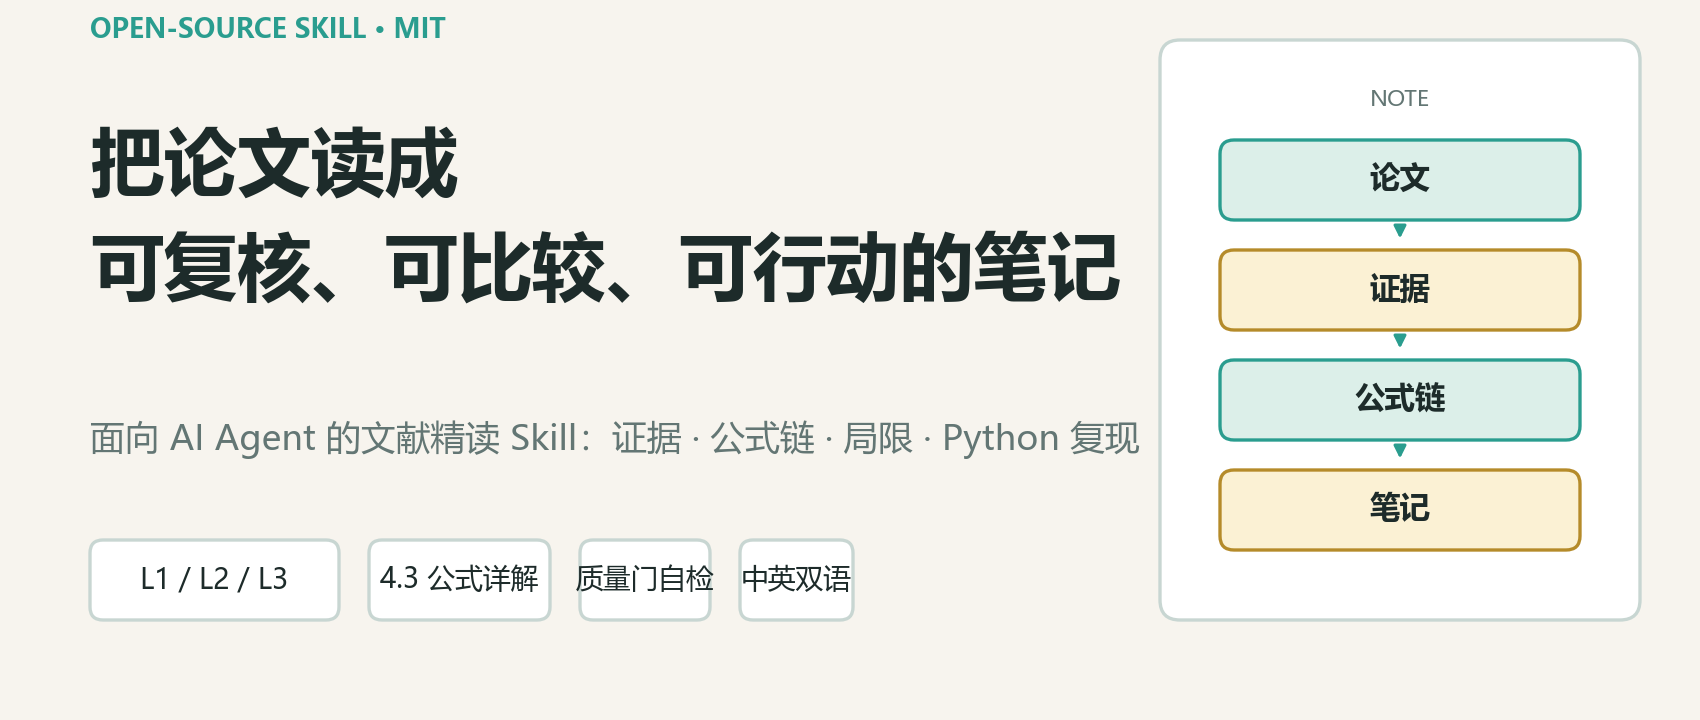
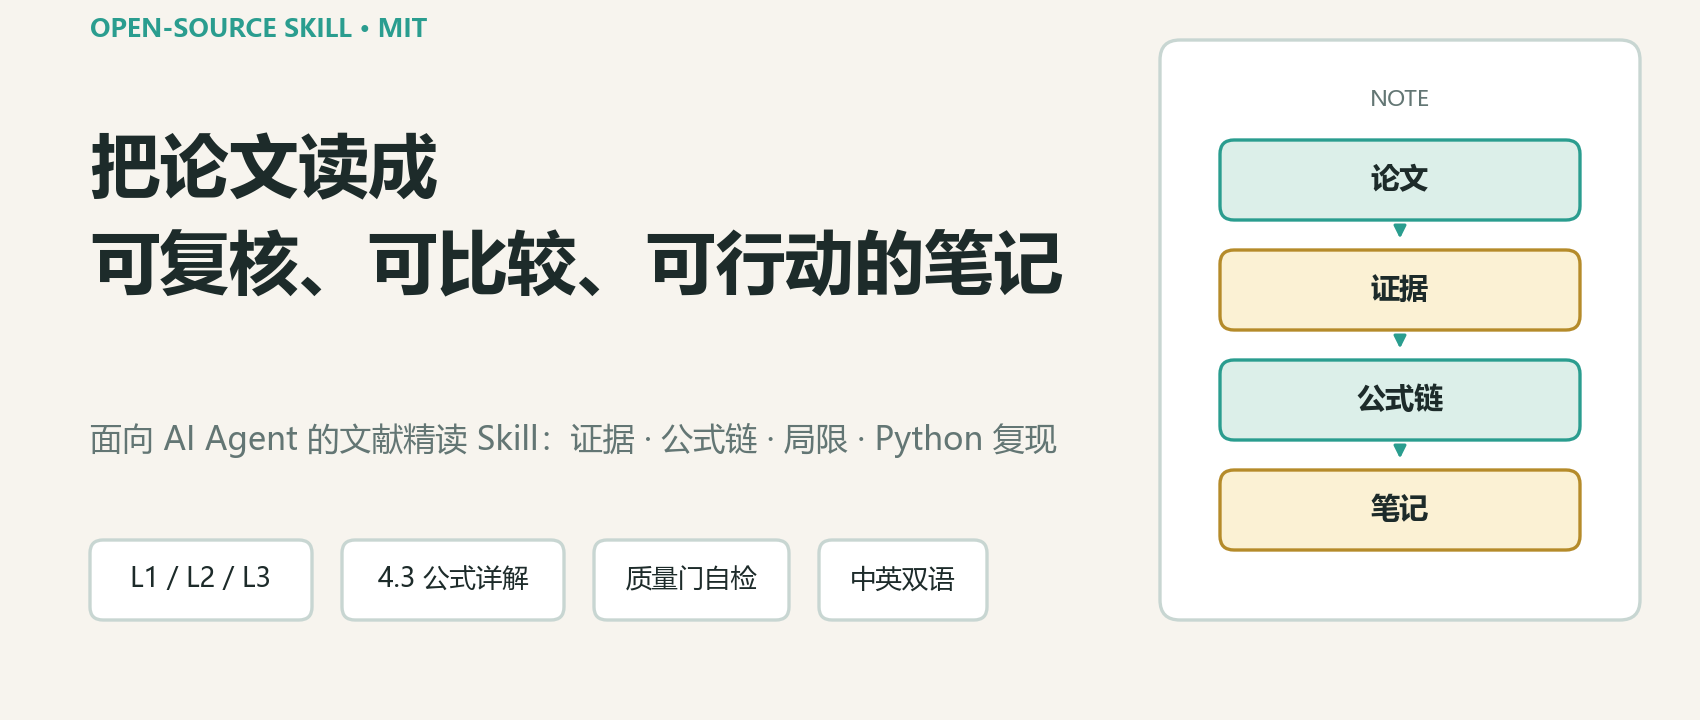
docs: auto-size cover chips and rebalance typography

diff --git a/docs/make_figures.py b/docs/make_figures.py
@@ -66,6 +66,11 @@ def text(ax, x, y, s, size=10, color=INK, weight="normal", ha="center", va="cent
             ha=ha, va=va, zorder=5, **kw)
 
 
+def display_width(s: str) -> int:
+    """Approximate display width: CJK characters count as 2, Latin as 1."""
+    return sum(2 if ord(ch) > 127 else 1 for ch in s)
+
+
 def wrap_display(s: str, width: int) -> str:
     """Wrap mixed CJK/Latin text: width is counted in CJK-character units."""
     lines, cur, used = [], "", 0
@@ -431,20 +436,20 @@ def cover(lang: str):
         y = 50 - i * 11
         rounded(ax, 122, y, 36, 8, fill=TEAL_L if i % 2 == 0 else YELLOW_L,
                 edge=TEAL if i % 2 == 0 else "#B58B2A", radius=1.4)
-        text(ax, 140, y + 4, s, size=11, weight="bold")
+        text(ax, 140, y + 4, s, size=10.5, weight="bold")
         if i < 3:
             arrow(ax, 140, y - 0.4, 140, y - 2.4, color=TEAL, lw=1.1, ms=9)
 
-    text(ax, 9, 69, L["kicker"], size=9.5, color=TEAL, weight="bold", ha="left")
-    text(ax, 9, 50, L["title"], size=26.5 if lang == "zh" else 24.5,
+    text(ax, 9, 69, L["kicker"], size=9, color=TEAL, weight="bold", ha="left")
+    text(ax, 9, 50, L["title"], size=25 if lang == "zh" else 23.5,
          weight="bold", ha="left", va="center", linespacing=1.45)
-    text(ax, 9, 28, L["sub"], size=12.5, color=MUTED, ha="left", linespacing=1.5)
+    text(ax, 9, 28, L["sub"], size=11.5, color=MUTED, ha="left", linespacing=1.5)
 
     x = 9
     for chip in L["chips"]:
-        w = 4.5 + len(chip) * 1.7
+        w = 6.0 + display_width(chip) * 1.35
         rounded(ax, x, 10, w, 8, fill=WHITE, edge=LINE, radius=1.3)
-        text(ax, x + w / 2, 14, chip, size=10.0, color=INK)
+        text(ax, x + w / 2, 14, chip, size=9.5, color=INK)
         x += w + 3
 
     fig.savefig(OUT / f"cover-{lang}.png", dpi=200, facecolor=BG)
